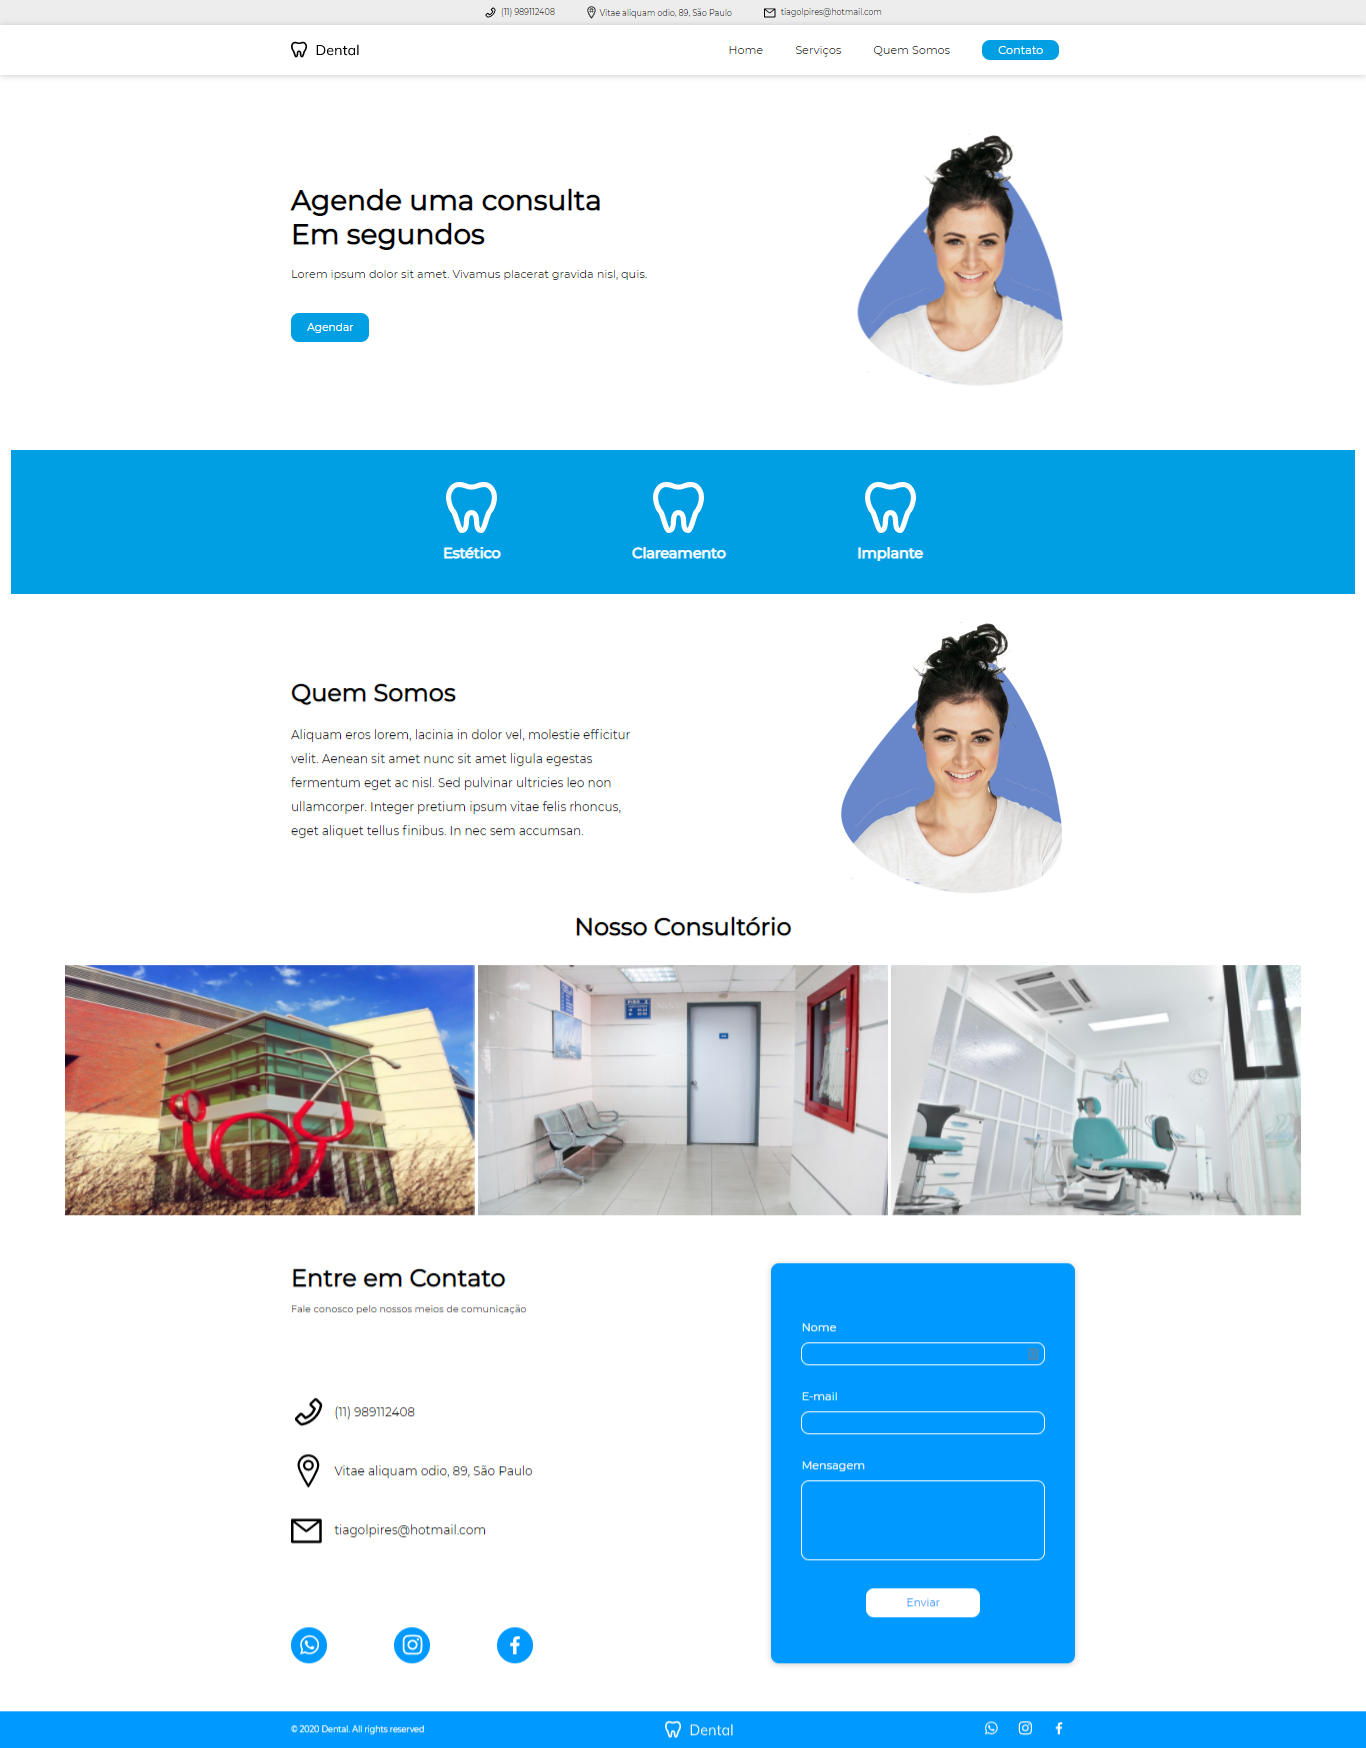
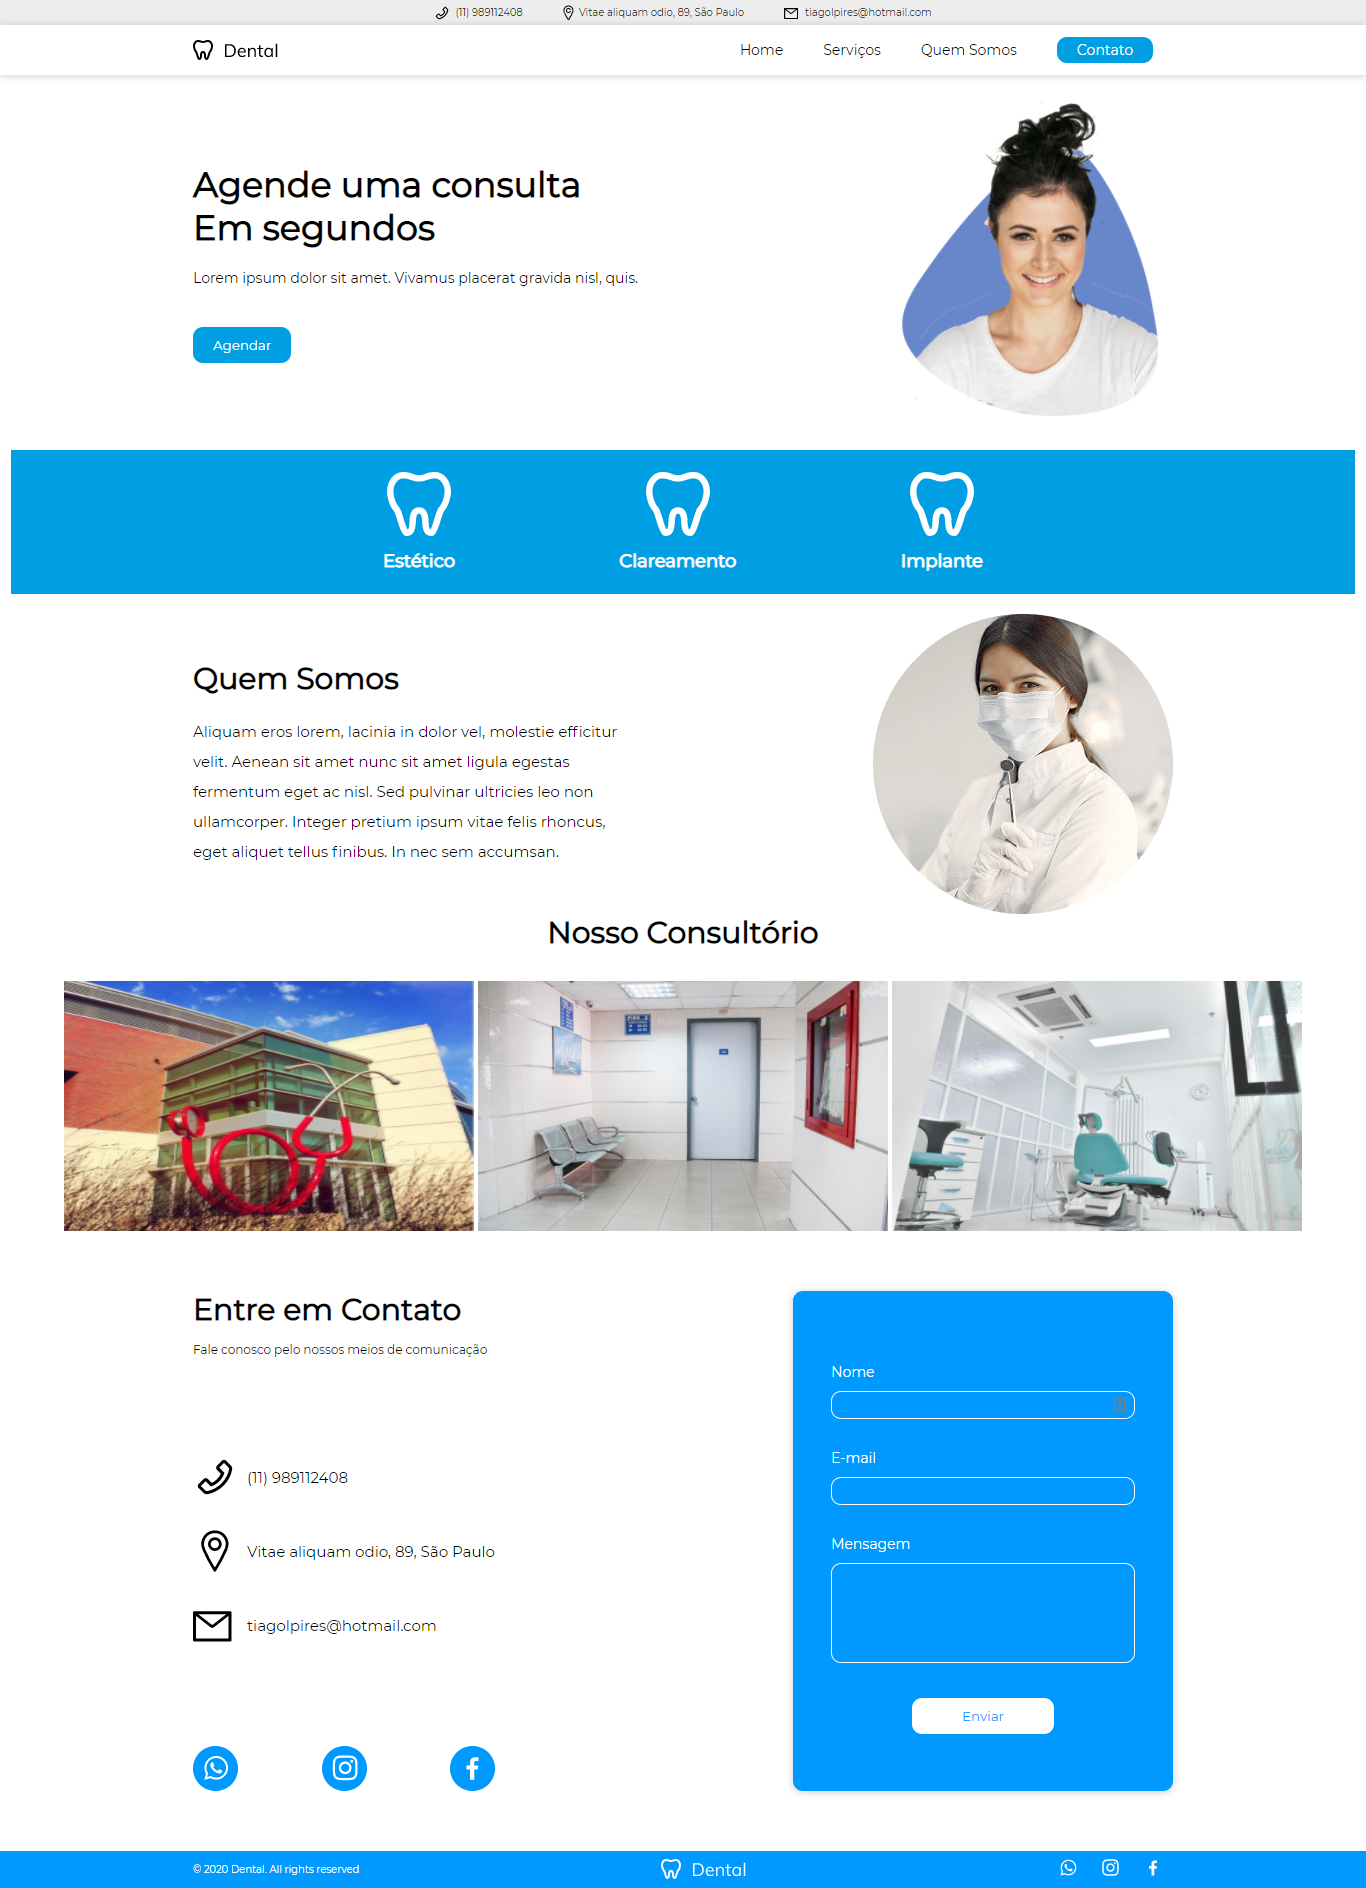
Dentist Image Change

diff --git a/index.html b/index.html
@@ -87,7 +87,7 @@
                     <h3>Quem Somos</h3>
                     <p>Aliquam eros lorem, lacinia in dolor vel, molestie efficitur velit. Aenean sit amet nunc sit amet ligula egestas fermentum eget ac nisl. Sed pulvinar ultricies leo non ullamcorper. Integer pretium ipsum vitae felis rhoncus, eget aliquet tellus finibus. In nec sem accumsan.</p>
                 </div>
-                <img src="/images/photo-1.png">
+                <img src="/images/photo-2.png">
         </section>
         <section class="clinic">
             <h4>Nosso Consultório</h4>
